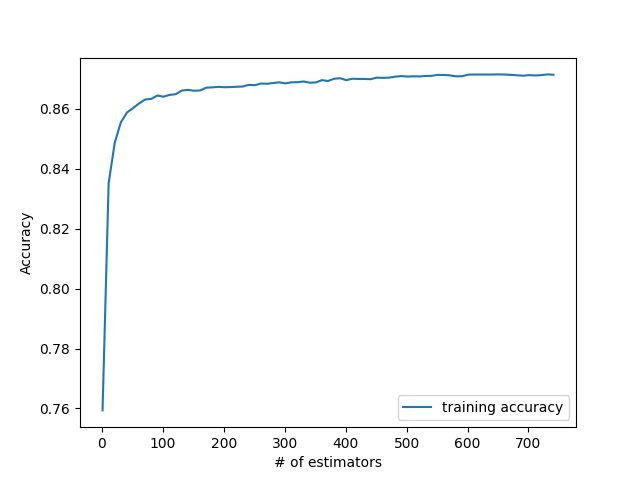
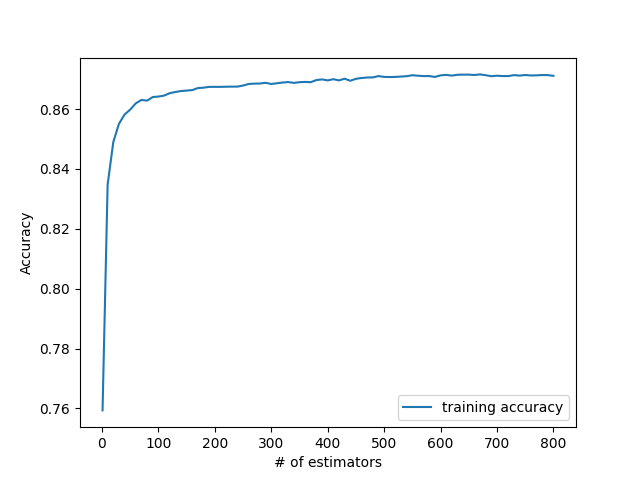
added more models and tweaked nn

diff --git a/nn.py b/nn.py
@@ -1,31 +1,53 @@
-import numpy as np
-import pandas as pd
-from sklearn.preprocessing import LabelEncoder
-import matplotlib.pyplot as plt
 import torch
 from torch import nn
+import numpy as np
+import pandas as pd
+from sklearn.preprocessing import OneHotEncoder, LabelEncoder
 from torch.utils.data import DataLoader, Dataset
+from torchvision import datasets
+from torchvision.transforms import ToTensor, Lambda, Compose
+import matplotlib.pyplot as plt
 
-def one_hot(x):
-    num_classes = len(np.unique(x))
-    targets = x[np.newaxis].reshape(-1)
-    one_hot_targets = np.eye(num_classes)[targets]
-    return one_hot_targets.astype(np.float32)
+batch_size = 10
+
+# Get cpu or gpu device for training.
+device = "cuda" if torch.cuda.is_available() else "cpu"
+print(f"Using {device} device")
 
 class RegressionDataset(Dataset):
-    def __init__(self, datafile, label_col):
+    def __init__(self, datafile, label_col, drop_col = None, encoder = "ohe"):
         raw = pd.read_csv(datafile)
 
-        s = (raw.dtypes == 'object')
-        object_cols = list(s[s].index)
+        if drop_col:
+            for col in drop_col:
+                raw.drop(col, axis=1, inplace=True)
 
-        le = LabelEncoder()
-        data = raw.copy()
+        if encoder == 'ohe':
+            obj_only = raw.select_dtypes('object')
 
-        # LabelEncode the categorical variables
-        for col in object_cols:
-            data[col+'num'] = le.fit_transform(data[col])
-            data.drop(col, axis=1, inplace=True)
+            s = (raw.dtypes == 'object')
+            object_cols = list(s[s].index)
+
+            ohe = OneHotEncoder(handle_unknown='ignore', drop='if_binary')
+            ohe.fit(obj_only)
+
+            encoded = ohe.transform(obj_only).toarray()
+            feature_names = ohe.get_feature_names_out(object_cols)
+
+            data = pd.concat([raw.select_dtypes(exclude='object'), 
+                    pd.DataFrame(encoded,columns=feature_names).astype(int)], axis=1)
+        
+        if encoder == 'le':
+            le = LabelEncoder()
+            data = raw.copy()
+
+            s = (raw.dtypes == 'object')
+            object_cols = list(s[s].index)
+
+            # LabelEncode the categorical variables
+            for col in object_cols:
+                data[col+'num'] = le.fit_transform(data[col])
+                data.drop(col, axis=1, inplace=True)
 
         # create Features/Labels dfs
         if label_col == None:
@@ -36,7 +58,7 @@ class RegressionDataset(Dataset):
             ys = data[label_col]
 
         self.xs = np.array(xs, dtype=np.float32)
-        self.ys = one_hot(np.array(ys, dtype=int))
+        self.ys = np.array(ys, dtype=int)
     
     def __len__(self):
         return len(self.xs)
@@ -47,67 +69,82 @@ class RegressionDataset(Dataset):
         return x, y
 
 def train(dataloader, model, loss_fn, optimizer):
+    size = len(dataloader.dataset)
     model.train()
-    train_loss = []
     for batch, (X, y) in enumerate(dataloader):
         X, y = X.to(device), y.to(device)
 
         # Compute prediction error
         pred = model(X)
-        loss = loss_fn(torch.reshape(pred, y.shape), y)
+        loss = loss_fn(pred, y)
 
         # Backpropagation
         optimizer.zero_grad()
         loss.backward()
         optimizer.step()
 
-        if batch % 10 == 0:
-            train_loss.append(loss.item())
-
-    print(f"training error: {np.mean(train_loss):>8f}")
-    return train_loss
-
-def comparison(pred, target):
-    pred = pred.round()
-    print(pred.astype(int))
-    print(target)
-    print("\n")
-    return np.sum(pred == target)
+        if batch % 500 == 0:
+            # print("pred: ", pred.argmax(1).cpu().numpy())
+            # print("targ: ", y.cpu().numpy())
+            loss, current = loss.item(), batch * len(X)
+            print(f"loss: {loss:>7f}  [{current:>5d}/{size:>5d}]")
 
 def test(dataloader, model, loss_fn):
+    size = len(dataloader.dataset)
     num_batches = len(dataloader)
     model.eval()
-    test_loss, accuracy = 0, 0
+    test_loss, correct = 0, 0
     with torch.no_grad():
         for X, y in dataloader:
             X, y = X.to(device), y.to(device)
-
             pred = model(X)
-
-            test_loss += loss_fn(torch.reshape(pred, y.shape), y).item()
-            accuracy += comparison(torch.reshape(pred, y.shape).cpu().numpy(), y.cpu().numpy())
+            test_loss += loss_fn(pred, y).item()
+            correct += (pred.argmax(1) == y).type(torch.int).sum().item()
     test_loss /= num_batches
-    accuracy /= len(dataloader.dataset)
-    print(f"test error: {test_loss:>8f} \n accuracy: {accuracy}\n")
-    return test_loss
+    correct /= size
+    print(f"Test Error: \n Accuracy: {(100*correct):>0.1f}%, Avg loss: {test_loss:>8f} \n")
+    return correct
 
-# Get cpu or gpu device for training.
-device = "cuda" if torch.cuda.is_available() else "cpu"
-print(f"Using {device} device")
+def predict(dataloader, model):
+    model.eval()
+    res = np.array([])
+    with torch.no_grad():
+        for X, _ in dataloader:
+            X = X.to(device)
+            pred = model(X)
+            res = np.append(res, pred.argmax(1).cpu().numpy())
+    return res
+# Define model
+DEPTH = 13
+WIDTH = 125
+class NeuralNetwork(nn.Module):
+    def __init__(self):
+        super(NeuralNetwork, self).__init__()
+        self.input = nn.Sequential(nn.Linear(14, WIDTH), nn.LeakyReLU())
+        self.body = nn.ModuleList([])
+        for i in range(DEPTH-2):
+            self.body.append(nn.Linear(WIDTH, WIDTH))
+            self.body.append(nn.LeakyReLU())
+        self.out = nn.Linear(WIDTH, 2)
 
-train_data = RegressionDataset('./data/train.csv', 'income>50K')
-test_data = RegressionDataset('./data/test.csv', None) # TODO: handle test data's lack of label col
+    def forward(self, x):
+        x = self.input(x)
+        for layer in self.body:
+            x = layer(x)
+        res = self.out(x)
+        return res
+
+# Create datasets
+train_data = RegressionDataset('./data/train.csv', 'income>50K', encoder='le')
+test_data = RegressionDataset('./data/test.csv', None, drop_col=['ID'], encoder='le')
 
 # Create data loaders.
-batch_size = 10
 train_dataloader = DataLoader(train_data, batch_size=batch_size, shuffle=True)
 test_dataloader = DataLoader(test_data, batch_size=batch_size)
 
-for x, y in train_dataloader:
-    print("x:", x)
-    print("x.shape:", x.shape)
-    print("y:", y)
-    print("y.shape:", y.shape)
+for X, y in train_dataloader:
+    print("Shape of X: ", X.shape)
+    print("Shape of y: ", y.shape, y.dtype)
     break
 
 def init_xavier(m):
@@ -115,59 +152,38 @@ def init_xavier(m):
         nn.init.xavier_normal_(m.weight)
         m.bias.data.fill_(0.01)
 
-def init_he(m):
-    if isinstance(m, nn.Linear):
-        nn.init.kaiming_normal_(m.weight)
-        m.bias.data.fill_(0.01)
+model = NeuralNetwork().to(device)
+model.apply(init_xavier)
+print(model)
 
-# widths = [14, 25, 50, 100, 150]
-widths = [25]
-# depths = [5, 9, 13]
-depths = [9]
+# perc 0 in trianing data: 0.75936
+weights = [1-0.75936, 0.75936]
+class_weights = torch.FloatTensor(weights).to(device)
+loss_fn = nn.CrossEntropyLoss(weight=class_weights)
+optimizer = torch.optim.AdamW(model.parameters(), lr=1e-3)
 
-for width in widths:
-    for depth in depths:
+best_model = model
+best_acc = 0
 
-        print(f"{depth}-deep, {width}-wide network:\n-------------------------------")
-        # Define model
-        class NeuralNetwork(nn.Module):
-            def __init__(self):
-                super(NeuralNetwork, self).__init__()
-                self.input = nn.Sequential(nn.Linear(14, width), nn.LeakyReLU())
-                self.body = nn.ModuleList([])
-                for i in range(depth-2):
-                    self.body.append(nn.Sequential(nn.Linear(width, width), nn.LeakyReLU()))
-                self.out = nn.Sequential(nn.Linear(width, 2), nn.Sigmoid())
+epochs = 25
+for t in range(epochs):
+    print(f"Epoch {t+1}\n-------------------------------")
+    train(train_dataloader, model, loss_fn, optimizer)
+    acc = test(train_dataloader, model, loss_fn)
+    if acc > best_acc:
+        best_acc = acc
+        best_model = model
+print(f"Our best training accuracy was {(100*best_acc):>0.1f}%")
+filename = "./out/model.pth"
+torch.save(model, filename)
+print(f"saved model to {filename}")
 
-            def forward(self, x):
-                x = self.input(x)
-                for layer in self.body:
-                    x = layer(x)
-                res = self.out(x)
-                return res
+# model = torch.load(filename).to(device)
+pred_test = predict(test_dataloader, best_model)
 
-        model = NeuralNetwork().to(device)
-        model.apply(init_xavier)
+data = {'ID': list(range(1, len(pred_test)+1)),
+        'Prediction': pred_test}
+out = pd.DataFrame(data)
 
-        loss_fn = nn.MSELoss()
-        # loss_fn = nn.CrossEntropyLoss()
-        optimizer = torch.optim.AdamW(model.parameters(), lr=1e-3)
-        
-        train_losses = np.array([])
-        epochs = 100
-        for t in range(epochs):
-            print(f"epoch {t+1}", end=' ')
-            epoch_losses = train(train_dataloader, model, loss_fn, optimizer)
-            train_losses = np.append(train_losses, epoch_losses)
-
-        fig, ax = plt.subplots()
-        ax.plot(train_losses)
-        ax.set_title(f"PyTorch: {depth}-deep, {width}-wide network")
-        ax.set_xlabel("iteration")
-        ax.set_ylabel("squared error")
-        plt.savefig(f"./out/torch_d{depth}_w{width}.png")
-        plt.close()
-        
-        test(train_dataloader, model, loss_fn) # all zeroes: 0.75936
-
-print("Done!\nPlots saved in './out/'")
+out.to_csv("./submissions/nn_submit.csv", index=False)
+print("Done!")

diff --git a/svm.py b/svm.py
@@ -33,18 +33,22 @@ for col in object_cols:
 Xs_train = train.drop('income>50K', axis=1)
 ys_train = train['income>50K']
 
-weights = {0 : 0.25,
-           1 : 0.75}
+kernels = ['linear', 'poly', 'rbf', 'sigmoid']
+best_kernel, best_acc = 'none', 0
 
-# create AdaBoost Classifier and do 5-fold CV
-print("5-fold cross-validation...")
-svc = make_pipeline(StandardScaler(), SVC(class_weight='balanced'))
-print(svc)
-cv_acc = cross_val_score(svc, Xs_train, ys_train, cv=5, n_jobs=-1)
-print(cv_acc.mean())
+for kernel in kernels:
+    # create AdaBoost Classifier and do 5-fold CV
+    print("5-fold cross-validation...")
+    svc = make_pipeline(StandardScaler(), SVC(class_weight='balanced', kernel=kernel, gamma='auto'))
+    print(svc)
+    cv_acc = cross_val_score(svc, Xs_train, ys_train, cv=5, n_jobs=-1)
+    if cv_acc.mean() > best_acc:
+        best_acc = cv_acc.mean()
+        best_kernel = kernel
+    print(cv_acc.mean())
 
-print("training on full dataset...")
-svc_final = make_pipeline(StandardScaler(), SVC(class_weight='balanced'))
+print(f"training on full dataset with {best_kernel} kernel...")
+svc_final = make_pipeline(StandardScaler(), SVC(class_weight='balanced', kernel='rbf'))
 svc_final = svc_final.fit(Xs_train, ys_train)
 
 ### Make Submission from test.csv

diff --git a/rf.py b/rf.py
@@ -15,8 +15,6 @@ raw_train = pd.read_csv("./data/train.csv")
 # https://analyticsindiamag.com/complete-guide-to-handling-categorical-data-using-scikit-learn/
 
 train = raw_train.copy()
-# train.drop('education.num', axis=1, inplace=True) # I drop this because I want to do the conversion myself
-# train.drop('native.country', axis=1, inplace=True)
 
 # determine categorical variables
 s = (train.dtypes == 'object')
@@ -65,14 +63,13 @@ plt.savefig("./reports/img/rf_acc.png")
 print(f"training final version with {best_x} classifiers...")
 clf = RandomForestClassifier(n_estimators=best_x)
 clf = clf.fit(Xs_train, ys_train)
-print(clf.feature_importances_)
 
 ### Make Submission from test.csv
 print("loading testing data...")
 raw_test = pd.read_csv("./data/test.csv")
 
 test = raw_test.copy()
-# test.drop(['education.num', 'ID'], axis=1, inplace=True)
+test.drop('ID', axis=1, inplace=True)
 
 # LabelEncode the categorical variables
 for col in object_cols:

diff --git a/test.py b/test.py
@@ -1,18 +1,19 @@
 import numpy as np
+import pandas as pd
+from sklearn.preprocessing import OneHotEncoder
 
-labs = np.array([0., 1., 0.001, 0.49, 0.51, 0.999])
+raw = pd.read_csv('./data/data-head.csv')
+obj_only = raw.select_dtypes('object')
 
-print(labs)
-print(labs.round())
-labs = labs.round()
-print(labs.astype(int))
+s = (raw.dtypes == 'object')
+object_cols = list(s[s].index)
 
-# print()
+ohe = OneHotEncoder(handle_unknown='ignore', drop='if_binary')
+ohe.fit(obj_only)
 
-# def one_hot(x):
-#     num_classes = len(np.unique(x))
-#     targets = x[np.newaxis].reshape(-1)
-#     one_hot_targets = np.eye(num_classes)[targets]
-#     return one_hot_targets
+encoded = ohe.transform(obj_only).toarray()
+feature_names = ohe.get_feature_names(object_cols)
 
-# print(one_hot(labs))
+data = pd.concat([raw.select_dtypes(exclude='object'), 
+                  pd.DataFrame(encoded,columns=feature_names).astype(int)], axis=1)
+print(data)
